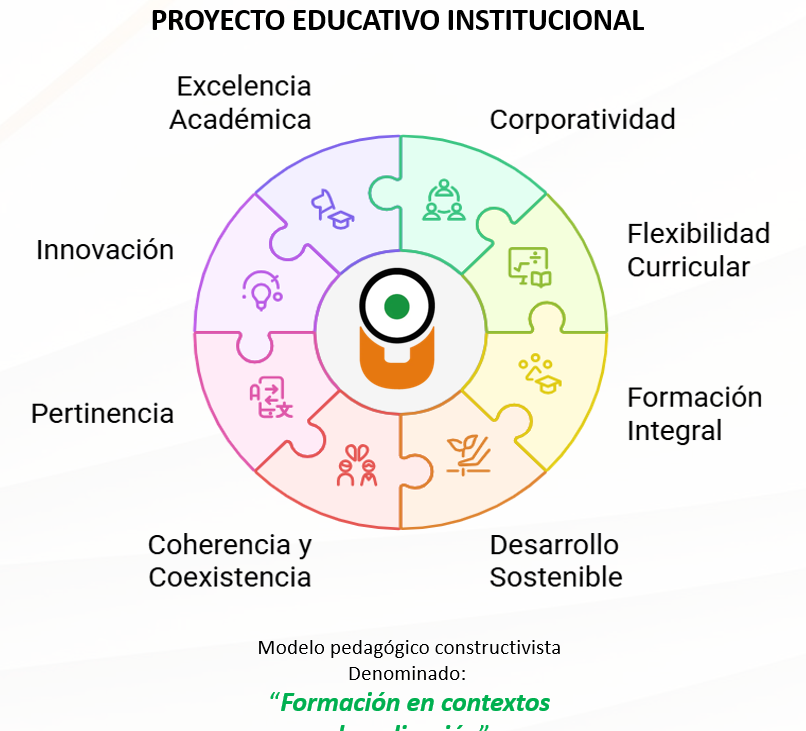
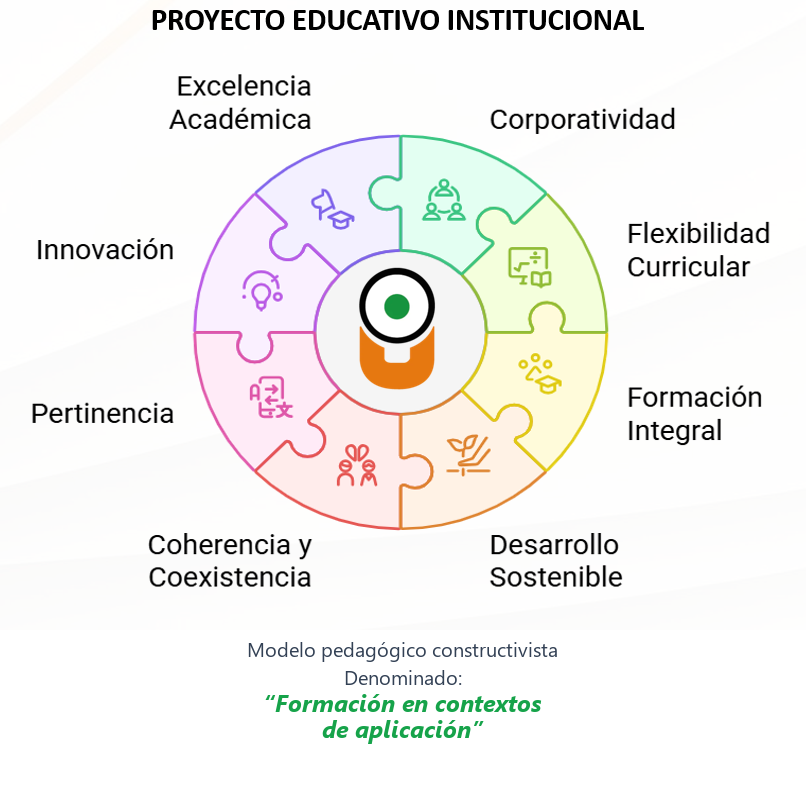
Corrige sintaxis de años en profesores y corrige recorte de texto en modelo pedagógico (PEI)

diff --git a/slides_part3.js b/slides_part3.js
@@ -2,15 +2,15 @@ const slides3=[
 // 18 COND 7 - Profesores Overview
 `${L}<p class="cond-badge">Condicion 07 - Profesores</p><h2>CUERPO <span class="accent">DOCENTE</span></h2><div class="line-accent"></div><div class="stats-row"><div class="stat-block"><div class="stat-number orange">8</div><div class="stat-desc">Docentes vinculados</div></div><div class="stat-block"><div class="stat-number">5 TC</div><div class="stat-desc">Tiempo completo</div></div><div class="stat-block"><div class="stat-number orange">3 MT</div><div class="stat-desc">Medio tiempo</div></div><div class="stat-block"><div class="stat-number">100%</div><div class="stat-desc">Con posgrado</div></div></div><div class="two-col" style="margin-top:16px"><div><h3 style="font-size:16px">CRITERIOS DE <span class="accent">SELECCION</span></h3><ul class="feat-list"><li>Requisicion por coordinadores, aprobada por Vicerrectoria Academica</li><li>Convocatoria publica con revision de candidatos</li><li>Entrevistas y pruebas de competencias</li><li>Verificacion de formacion, experiencia y produccion cientifica</li><li>Escalafon docente con criterios objetivos</li><li>Estatuto Docente regula funciones, dedicacion y contratacion (Anexo 17)</li></ul></div><div><h3 style="font-size:16px">FORMACION <span class="accent">ACADEMICA</span></h3><canvas id="formacionChart" height="200"></canvas></div></div>`,
 // 19 COND 7 - Perfiles Detallados
-`${L}<p class="cond-badge">Condicion 07 - Perfiles Docentes</p><h2>EQUIPO <span class="accent">ACADEMICO</span></h2><div class="line-accent"></div><table class="clean-table" style="margin-top:8px"><thead><tr><th>Docente</th><th>Formacion Academica</th><th>Vinc.</th><th>Exp. Prof.</th><th>Exp. Doc.</th></tr></thead><tbody><tr><td>Fredy Castellanos B.</td><td>Magister Prevencion Riesgos Laborales, Esp. Gerencia Empresas, Ing. Industrial</td><td>TC</td><td>25 anos</td><td>20 anos</td></tr><tr><td>Pedro E. Noriega G.</td><td>Cursante Doctorado Educacion, Esp. Salud Ocupacional, Ing. Industrial, Tec. Mecanico</td><td>TC</td><td>25 anos</td><td>20 anos</td></tr><tr><td>Guillermo Melendez</td><td>Cursante Doctorado Educacion, Maestria Riesgos Laborales, Abogado, Prof. Salud Ocup.</td><td>TC</td><td>18 anos</td><td>15 anos</td></tr><tr><td>Andrea K. Hernandez</td><td>Magister Administracion, Esp. Tec. Gestion BD, Ing. Industrial, Periodismo</td><td>TC</td><td>16 anos</td><td>14 anos</td></tr><tr><td>Cristian Perez Ch.</td><td>Candidato Magister Gerencia Organizaciones, Esp. Finanzas, Adm. Empresas</td><td>TC</td><td>6 anos</td><td>1 ano</td></tr><tr><td>Ivan L. Mantilla J.</td><td>Magister Innovacion Social, Maestria Adm. Gerencial, 3 Especializaciones, Ing. Industrial</td><td>MT</td><td>12 anos</td><td>7 anos</td></tr><tr><td>Leonardo F. Perez V.</td><td>Master Finanzas, Magister Direccion Empresas, Esp. Gerencia Proyectos, Ing. Industrial</td><td>MT</td><td>15 anos</td><td>5 anos</td></tr><tr><td>Alejandro Almeyda C.</td><td>Magister Gerencia Negocios, 2 Especializaciones, Ing. de Mercados</td><td>MT</td><td>25 anos</td><td>23 anos</td></tr></tbody></table><p style="font-size:12px;color:#555;margin-top:8px">Hojas de vida documentadas en Anexo 19 y Anexo 20. Experiencia promedio profesional: 17.5 anos. Experiencia promedio docente: 13 anos.</p>`,
+`${L}<p class="cond-badge">Condicion 07 - Perfiles Docentes</p><h2>EQUIPO <span class="accent">ACADEMICO</span></h2><div class="line-accent"></div><table class="clean-table" style="margin-top:8px"><thead><tr><th>Docente</th><th>Formacion Academica</th><th>Vinc.</th><th>Exp. Prof.</th><th>Exp. Doc.</th></tr></thead><tbody><tr><td>Fredy Castellanos B.</td><td>Magister Prevencion Riesgos Laborales, Esp. Gerencia Empresas, Ing. Industrial</td><td>TC</td><td>25 años</td><td>20 años</td></tr><tr><td>Pedro E. Noriega G.</td><td>Cursante Doctorado Educacion, Esp. Salud Ocupacional, Ing. Industrial, Tec. Mecanico</td><td>TC</td><td>25 años</td><td>20 años</td></tr><tr><td>Guillermo Melendez</td><td>Cursante Doctorado Educacion, Maestria Riesgos Laborales, Abogado, Prof. Salud Ocup.</td><td>TC</td><td>18 años</td><td>15 años</td></tr><tr><td>Andrea K. Hernandez</td><td>Magister Administracion, Esp. Tec. Gestion BD, Ing. Industrial, Periodismo</td><td>TC</td><td>16 años</td><td>14 años</td></tr><tr><td>Cristian Perez Ch.</td><td>Candidato Magister Gerencia Organizaciones, Esp. Finanzas, Adm. Empresas</td><td>TC</td><td>6 años</td><td>1 año</td></tr><tr><td>Ivan L. Mantilla J.</td><td>Magister Innovacion Social, Maestria Adm. Gerencial, 3 Especializaciones, Ing. Industrial</td><td>MT</td><td>12 años</td><td>7 años</td></tr><tr><td>Leonardo F. Perez V.</td><td>Master Finanzas, Magister Direccion Empresas, Esp. Gerencia Proyectos, Ing. Industrial</td><td>MT</td><td>15 años</td><td>5 años</td></tr><tr><td>Alejandro Almeyda C.</td><td>Magister Gerencia Negocios, 2 Especializaciones, Ing. de Mercados</td><td>MT</td><td>25 años</td><td>23 años</td></tr></tbody></table><p style="font-size:12px;color:#555;margin-top:8px">Hojas de vida documentadas en Anexo 19 y Anexo 20. Experiencia promedio profesional: 17.5 años. Experiencia promedio docente: 13 años.</p>`,
 // 20 COND 7 - Plan Vinculacion
 `${L}<p class="cond-badge">Condicion 07 - Plan de Vinculacion Docente</p><h2>PROYECCION <span class="accent">DOCENTE</span></h2><div class="line-accent"></div><div class="two-col" style="margin-top:12px"><div><h3 style="font-size:16px">CRECIMIENTO <span class="accent">PROGRESIVO</span></h3><p style="font-size:14px;line-height:1.6">La proyeccion de docentes por semestre se realiza segun crecimiento de cohortes, cumpliendo perfiles determinados en el escalafon docente.</p><canvas id="proyeccionChart" height="180"></canvas></div><div><h3 style="font-size:16px">LINEAMIENTOS <span class="accent">INSTITUCIONALES</span></h3><ul class="feat-list"><li>Estatuto Docente - Cap. IV: Seleccion, vinculacion, desvinculacion (Anexo 17)</li><li>Cap. V: Funciones, tipo contratacion, dedicacion, asignacion</li><li>Lineamiento Distribucion Planes de Trabajo (Anexo 18)</li><li>Plan de Vinculacion Docente con presupuesto asignado (Anexo 7)</li><li>Escalafon con criterios: formacion, experiencia, produccion cientifica</li><li>Libertad de catedra y libre investigacion garantizadas</li></ul><div class="line-accent" style="margin-top:12px"></div><div class="stat-block"><div class="stat-number orange">140</div><div class="stat-desc">Estudiantes por cohorte con escalabilidad docente garantizada</div></div></div></div>`,
 // 21 COND 8 - Medios Educativos
 `${L}<p class="cond-badge">Condicion 08 - Medios Educativos</p><h2>ECOSISTEMA <span class="accent">DIGITAL</span></h2><div class="line-accent"></div><div class="eco-grid" style="margin-top:16px"><div class="eco-card"><div class="icon">&#128218;</div><div class="name">LMS Campus Virtual</div><p style="font-size:12px;color:#555;margin-top:4px">Plataforma de gestion del aprendizaje con recursos multimedia</p></div><div class="eco-card"><div class="icon">&#128214;</div><div class="name">Biblioteca E-Libro</div><p style="font-size:12px;color:#555;margin-top:4px">Contrato vigente con miles de titulos especializados (Anexo 21)</p></div><div class="eco-card"><div class="icon">&#127909;</div><div class="name">Plataforma Sincronica</div><p style="font-size:12px;color:#555;margin-top:4px">Encuentros en tiempo real con grabacion y chat</p></div><div class="eco-card"><div class="icon">&#128274;</div><div class="name">Software Antiplagio</div><p style="font-size:12px;color:#555;margin-top:4px">Verificacion de originalidad en trabajos academicos</p></div><div class="eco-card"><div class="icon">&#128231;</div><div class="name">Correo Institucional</div><p style="font-size:12px;color:#555;margin-top:4px">Herramientas de productividad y comunicacion</p></div><div class="eco-card"><div class="icon">&#128187;</div><div class="name">Software Creacion</div><p style="font-size:12px;color:#555;margin-top:4px">Herramientas para produccion de contenidos digitales</p></div></div><p style="font-size:13px;color:#555;margin-top:12px">Instructivo de ingreso a Campus Virtual (Anexo 13) | Lineamiento Virtualizacion (Anexo 20)</p>`,
 // 22 COND 8 - Accesibilidad
-`${L}<p class="cond-badge">Condicion 08 - Disponibilidad y Acceso</p><h2>ACCESIBILIDAD Y <span class="accent">CAPACITACION</span></h2><div class="line-accent"></div><div class="two-col" style="margin-top:12px"><div><h3 style="font-size:16px">PROCESOS <span class="accent">DOCUMENTADOS</span></h3><ul class="feat-list"><li>Proceso de asignacion de medios educativos segun experiencias de aprendizaje</li><li>Capacitacion docente y estudiantil en uso de plataformas</li><li>Estrategias de accesibilidad para personas con necesidades especiales</li><li>Proceso de prestamo y asignacion de recursos</li><li>Atencion de barreras de acceso con ajustes razonables</li><li>Plan de actualizacion tecnologica a 7 anos</li></ul></div><div><h3 style="font-size:16px">GARANTIAS DE <span class="accent">CALIDAD</span></h3><div class="data-grid" style="grid-template-columns:1fr"><div class="data-cell accent-cell"><h4>Capacitacion Permanente</h4><p>Programas de formacion docente en uso de TIC y herramientas digitales</p></div><div class="data-cell"><h4>Soporte Tecnico</h4><p>Mesa de ayuda disponible para estudiantes y docentes</p></div><div class="data-cell"><h4>Actualizacion Continua</h4><p>Renovacion planificada de licencias, plataformas y contenidos</p></div></div></div></div>`,
+`${L}<p class="cond-badge">Condicion 08 - Disponibilidad y Acceso</p><h2>ACCESIBILIDAD Y <span class="accent">CAPACITACION</span></h2><div class="line-accent"></div><div class="two-col" style="margin-top:12px"><div><h3 style="font-size:16px">PROCESOS <span class="accent">DOCUMENTADOS</span></h3><ul class="feat-list"><li>Proceso de asignacion de medios educativos segun experiencias de aprendizaje</li><li>Capacitacion docente y estudiantil en uso de plataformas</li><li>Estrategias de accesibilidad para personas con necesidades especiales</li><li>Proceso de prestamo y asignacion de recursos</li><li>Atencion de barreras de acceso con ajustes razonables</li><li>Plan de actualizacion tecnologica a 7 años</li></ul></div><div><h3 style="font-size:16px">GARANTIAS DE <span class="accent">CALIDAD</span></h3><div class="data-grid" style="grid-template-columns:1fr"><div class="data-cell accent-cell"><h4>Capacitacion Permanente</h4><p>Programas de formacion docente en uso de TIC y herramientas digitales</p></div><div class="data-cell"><h4>Soporte Tecnico</h4><p>Mesa de ayuda disponible para estudiantes y docentes</p></div><div class="data-cell"><h4>Actualizacion Continua</h4><p>Renovacion planificada de licencias, plataformas y contenidos</p></div></div></div></div>`,
 // 23 COND 9 - Infraestructura Fisica
-`${L}<p class="cond-badge">Condicion 09 - Infraestructura</p><h2>INFRAESTRUCTURA <span class="accent">FISICA</span></h2><div class="line-accent"></div><div class="data-grid" style="margin-top:16px"><div class="data-cell accent-cell"><h4>Sede A</h4><p>Oficinas administrativas, aulas y espacios academicos. Contrato vigente (Anexo 22). Uso de suelo y Licencia de Construccion aprobados (Anexo 23).</p></div><div class="data-cell"><h4>Sede B</h4><p>Convenio institucional (Anexo 25) para espacios complementarios, bienestar universitario y actividades de extension.</p></div><div class="data-cell"><h4>Sede C</h4><p>Laboratorios especializados, salas de computo y espacios de practica. Contrato vigente (Anexo 24).</p></div></div><div class="two-col" style="margin-top:16px"><div><h3 style="font-size:16px">DOCUMENTOS <span class="accent">LEGALES</span></h3><ul class="feat-list"><li>Contrato Sede A (Anexo 22)</li><li>Uso de Suelo y Licencia de Construccion (Anexo 23)</li><li>Contrato Sede C (Anexo 24)</li><li>Convenio Sede B (Anexo 25)</li></ul></div><div><h3 style="font-size:16px">PLAN DE <span class="accent">MANTENIMIENTO</span></h3><p style="font-size:14px;line-height:1.6">Plan de renovacion y mantenimiento, actualizacion y reposicion de la infraestructura fisica y tecnologica proyectado para los proximos 7 anos.</p></div></div>`,
+`${L}<p class="cond-badge">Condicion 09 - Infraestructura</p><h2>INFRAESTRUCTURA <span class="accent">FISICA</span></h2><div class="line-accent"></div><div class="data-grid" style="margin-top:16px"><div class="data-cell accent-cell"><h4>Sede A</h4><p>Oficinas administrativas, aulas y espacios academicos. Contrato vigente (Anexo 22). Uso de suelo y Licencia de Construccion aprobados (Anexo 23).</p></div><div class="data-cell"><h4>Sede B</h4><p>Convenio institucional (Anexo 25) para espacios complementarios, bienestar universitario y actividades de extension.</p></div><div class="data-cell"><h4>Sede C</h4><p>Laboratorios especializados, salas de computo y espacios de practica. Contrato vigente (Anexo 24).</p></div></div><div class="two-col" style="margin-top:16px"><div><h3 style="font-size:16px">DOCUMENTOS <span class="accent">LEGALES</span></h3><ul class="feat-list"><li>Contrato Sede A (Anexo 22)</li><li>Uso de Suelo y Licencia de Construccion (Anexo 23)</li><li>Contrato Sede C (Anexo 24)</li><li>Convenio Sede B (Anexo 25)</li></ul></div><div><h3 style="font-size:16px">PLAN DE <span class="accent">MANTENIMIENTO</span></h3><p style="font-size:14px;line-height:1.6">Plan de renovacion y mantenimiento, actualizacion y reposicion de la infraestructura fisica y tecnologica proyectado para los proximos 7 años.</p></div></div>`,
 // 24 COND 9 - Infraestructura Tecnologica
 `${L}<p class="cond-badge">Condicion 09 - Infraestructura Tecnologica</p><h2>PLATAFORMA <span class="accent">TECNOLOGICA</span></h2><div class="line-accent"></div><div class="two-col" style="margin-top:12px"><div><table class="clean-table"><thead><tr><th>Componente</th><th>Descripcion</th></tr></thead><tbody><tr><td class="lb">LMS</td><td>Plataforma de gestion del aprendizaje institucional</td></tr><tr><td class="lb">Encuentros sincronicos</td><td>Plataforma para videoconferencias y clases en vivo</td></tr><tr><td class="lb">Correo institucional</td><td>Suite de herramientas de productividad</td></tr><tr><td class="lb">Software antiplagio</td><td>Verificacion de originalidad academica</td></tr><tr><td class="lb">Biblioteca digital</td><td>E-Libro con acceso a miles de titulos</td></tr><tr><td class="lb">Creacion contenidos</td><td>Software para produccion de material educativo</td></tr><tr><td class="lb">Servidores</td><td>Infraestructura para soportar 140+ estudiantes por cohorte</td></tr></tbody></table></div><div><h3 style="font-size:16px">DIMENSIONAMIENTO <span class="accent">TECNOLOGICO</span></h3><canvas id="techChart" height="180"></canvas><p style="font-size:13px;color:#555;margin-top:8px">Escalabilidad garantizada para crecimiento progresivo de cohortes</p></div></div>`,
 // 25 Marco Normativo

diff --git a/sections2.js b/sections2.js
@@ -58,23 +58,23 @@ c5:`<div class="slide-header"><div class="slide-title"><div class="slide-subtitl
         <button class="nav-btn" style="background:#111827; color:#fff; border:1px solid #FF6600; padding:10px; border-radius:5px; cursor:pointer;" onclick="openModal('assets/slide_18_shape.png', 'Aportes al Sector Productivo')"><i class="fas fa-industry" style="color:#FF6600;"></i> Aportes al Sector</button>
     </div>
     <div class="card" style="margin-bottom:15px; text-align:center;">
-        <button class="nav-btn" style="background:#10B981; color:#fff; border:none; padding:12px 20px; font-weight:bold; border-radius:5px; cursor:pointer; width:100%; font-size:1.1em;" onclick="openModal('assets/slide_19_shape.png', 'Proyeccion de Investigacion a 7 Anos')"><i class="fas fa-calendar-alt"></i> Ver Plan de Desarrollo de Investigacion a 7 Anos</button>
+        <button class="nav-btn" style="background:#10B981; color:#fff; border:none; padding:12px 20px; font-weight:bold; border-radius:5px; cursor:pointer; width:100%; font-size:1.1em;" onclick="openModal('assets/slide_19_shape.png', 'Proyeccion de Investigacion a 7 Años')"><i class="fas fa-calendar-alt"></i> Ver Plan de Desarrollo de Investigacion a 7 Años</button>
     </div>
 </div>
 </div>`,
 
 c6:`<div class="slide-header"><div class="slide-title"><div class="slide-subtitle">Condicion 06</div><h1>Relacion con el Sector Externo</h1></div><div class="date-badge">Art. 2.5.3.2.3.2.7</div></div>
 <div class="timeline"><div class="event-card type-induction"><span class="event-time">ESTRATEGIAS DE VINCULACION</span><div class="event-title">Mecanismos de Articulacion</div><div class="grid-3" style="margin-top:8px"><div class="card"><h4><i class="fas fa-building"></i> Convenios</h4><p>Visitas empresariales virtuales, pasantias y proyectos con sector productivo regional</p></div><div class="card-accent"><h4><i class="fas fa-globe"></i> Internacional</h4><p>Simposios virtuales con universidades aliadas y eventos academicos internacionales</p></div><div class="card"><h4><i class="fas fa-bullhorn"></i> Extension</h4><p>Congreso virtual interdisciplinar y foro anual de innovacion industrial</p></div></div></div>
-<div class="event-card type-academic"><span class="event-time">PLAN OPERATIVO A 7 ANOS</span><div class="event-title">Hoja de Ruta de Relacionamiento</div><table class="tbl"><thead><tr><th>Ano</th><th>Accion Estrategica</th><th>Resultado Esperado</th></tr></thead><tbody><tr><td class="lb">1</td><td>Convenios marco con empresas regionales</td><td>5 convenios firmados</td></tr><tr><td class="lb">2</td><td>Visitas empresariales virtuales, semilleros con sector</td><td>10 visitas, 2 proyectos</td></tr><tr><td class="lb">3</td><td>Congreso virtual interdisciplinar nacional</td><td>100+ participantes</td></tr><tr><td class="lb">4</td><td>Simposio internacional con universidades aliadas</td><td>3 IES internacionales</td></tr><tr><td class="lb">5</td><td>Red de egresados, foro anual de innovacion</td><td>Red activa, 50+ egresados</td></tr><tr><td class="lb">6</td><td>Publicaciones conjuntas con sector productivo</td><td>3 publicaciones</td></tr><tr><td class="lb">7</td><td>Consolidacion de alianzas internacionales</td><td>5 alianzas permanentes</td></tr></tbody></table><div class="evidence-box"><i class="fas fa-handshake"></i>Lineamiento de Relacionamiento Externo (Anexo 16)</div></div></div>`,
+<div class="event-card type-academic"><span class="event-time">PLAN OPERATIVO A 7 AÑOS</span><div class="event-title">Hoja de Ruta de Relacionamiento</div><table class="tbl"><thead><tr><th>Año</th><th>Accion Estrategica</th><th>Resultado Esperado</th></tr></thead><tbody><tr><td class="lb">1</td><td>Convenios marco con empresas regionales</td><td>5 convenios firmados</td></tr><tr><td class="lb">2</td><td>Visitas empresariales virtuales, semilleros con sector</td><td>10 visitas, 2 proyectos</td></tr><tr><td class="lb">3</td><td>Congreso virtual interdisciplinar nacional</td><td>100+ participantes</td></tr><tr><td class="lb">4</td><td>Simposio internacional con universidades aliadas</td><td>3 IES internacionales</td></tr><tr><td class="lb">5</td><td>Red de egresados, foro anual de innovacion</td><td>Red activa, 50+ egresados</td></tr><tr><td class="lb">6</td><td>Publicaciones conjuntas con sector productivo</td><td>3 publicaciones</td></tr><tr><td class="lb">7</td><td>Consolidacion de alianzas internacionales</td><td>5 alianzas permanentes</td></tr></tbody></table><div class="evidence-box"><i class="fas fa-handshake"></i>Lineamiento de Relacionamiento Externo (Anexo 16)</div></div></div>`,
 
 c7:`<div class="slide-header"><div class="slide-title"><div class="slide-subtitle">Condicion 07</div><h1>Profesores</h1></div><div class="date-badge">Art. 2.5.3.2.3.2.8</div></div>
-<div class="grid-4"><div class="card" style="text-align:center"><div class="stat-num orange">8</div><div class="stat-label">Docentes</div></div><div class="card" style="text-align:center"><div class="stat-num">5 TC</div><div class="stat-label">Tiempo Completo</div></div><div class="card" style="text-align:center"><div class="stat-num orange">100%</div><div class="stat-label">Con Posgrado</div></div><div class="card" style="text-align:center"><div class="stat-num">17.5</div><div class="stat-label">Anos Exp. Promedio</div></div></div>
-<div class="card" style="margin-top:16px"><h4><i class="fas fa-users"></i> Perfiles Docentes Completos</h4><table class="tbl"><thead><tr><th>Docente</th><th>Formacion Academica</th><th>Vinc.</th><th>Exp. Prof.</th><th>Exp. Doc.</th></tr></thead><tbody><tr><td>Fredy Castellanos B.</td><td>Mag. Prev. Riesgos Lab., Esp. Gerencia, Ing. Industrial</td><td>TC</td><td>25 anos</td><td>20 anos</td></tr><tr><td>Pedro E. Noriega G.</td><td>Curs. Doctorado, Esp. Salud Ocup., Ing. Industrial</td><td>TC</td><td>25 anos</td><td>20 anos</td></tr><tr><td>Guillermo Melendez</td><td>Curs. Doctorado, Maestria Riesgos, Abogado</td><td>TC</td><td>18 anos</td><td>15 anos</td></tr><tr><td>Andrea K. Hernandez</td><td>Mag. Administracion, Esp. BD, Ing. Industrial</td><td>TC</td><td>16 anos</td><td>14 anos</td></tr><tr><td>Cristian Perez Ch.</td><td>Cand. Mag. Gerencia, Esp. Finanzas, Adm. Empresas</td><td>TC</td><td>6 anos</td><td>1 ano</td></tr><tr><td>Ivan L. Mantilla J.</td><td>Mag. Innovacion Social, 3 Esp., Ing. Industrial</td><td>MT</td><td>12 anos</td><td>7 anos</td></tr><tr><td>Leonardo F. Perez V.</td><td>Master Finanzas, Mag. Direccion, Ing. Industrial</td><td>MT</td><td>15 anos</td><td>5 anos</td></tr><tr><td>Alejandro Almeyda C.</td><td>Mag. Gerencia, 2 Esp., Ing. de Mercados</td><td>MT</td><td>25 anos</td><td>23 anos</td></tr></tbody></table><div class="evidence-box"><i class="fas fa-id-badge"></i>Hojas de Vida (Anexo 19 y 20) | Estatuto Docente (Anexo 17)</div></div>
-<div class="grid-2" style="margin-top:16px"><div class="chart-box"><h4><i class="fas fa-chart-bar"></i> Formacion Academica</h4><canvas id="formacionChart" height="160"></canvas></div><div class="chart-box"><h4><i class="fas fa-chart-line"></i> Proyeccion Docente a 7 Anos</h4><canvas id="proyeccionChart" height="160"></canvas></div></div>`,
+<div class="grid-4"><div class="card" style="text-align:center"><div class="stat-num orange">8</div><div class="stat-label">Docentes</div></div><div class="card" style="text-align:center"><div class="stat-num">5 TC</div><div class="stat-label">Tiempo Completo</div></div><div class="card" style="text-align:center"><div class="stat-num orange">100%</div><div class="stat-label">Con Posgrado</div></div><div class="card" style="text-align:center"><div class="stat-num">17.5</div><div class="stat-label">Años Exp. Promedio</div></div></div>
+<div class="card" style="margin-top:16px"><h4><i class="fas fa-users"></i> Perfiles Docentes Completos</h4><table class="tbl"><thead><tr><th>Docente</th><th>Formacion Academica</th><th>Vinc.</th><th>Exp. Prof.</th><th>Exp. Doc.</th></tr></thead><tbody><tr><td>Fredy Castellanos B.</td><td>Mag. Prev. Riesgos Lab., Esp. Gerencia, Ing. Industrial</td><td>TC</td><td>25 años</td><td>20 años</td></tr><tr><td>Pedro E. Noriega G.</td><td>Curs. Doctorado, Esp. Salud Ocup., Ing. Industrial</td><td>TC</td><td>25 años</td><td>20 años</td></tr><tr><td>Guillermo Melendez</td><td>Curs. Doctorado, Maestria Riesgos, Abogado</td><td>TC</td><td>18 años</td><td>15 años</td></tr><tr><td>Andrea K. Hernandez</td><td>Mag. Administracion, Esp. BD, Ing. Industrial</td><td>TC</td><td>16 años</td><td>14 años</td></tr><tr><td>Cristian Perez Ch.</td><td>Cand. Mag. Gerencia, Esp. Finanzas, Adm. Empresas</td><td>TC</td><td>6 años</td><td>1 año</td></tr><tr><td>Ivan L. Mantilla J.</td><td>Mag. Innovacion Social, 3 Esp., Ing. Industrial</td><td>MT</td><td>12 años</td><td>7 años</td></tr><tr><td>Leonardo F. Perez V.</td><td>Master Finanzas, Mag. Direccion, Ing. Industrial</td><td>MT</td><td>15 años</td><td>5 años</td></tr><tr><td>Alejandro Almeyda C.</td><td>Mag. Gerencia, 2 Esp., Ing. de Mercados</td><td>MT</td><td>25 años</td><td>23 años</td></tr></tbody></table><div class="evidence-box"><i class="fas fa-id-badge"></i>Hojas de Vida (Anexo 19 y 20) | Estatuto Docente (Anexo 17)</div></div>
+<div class="grid-2" style="margin-top:16px"><div class="chart-box"><h4><i class="fas fa-chart-bar"></i> Formacion Academica</h4><canvas id="formacionChart" height="160"></canvas></div><div class="chart-box"><h4><i class="fas fa-chart-line"></i> Proyeccion Docente a 7 Años</h4><canvas id="proyeccionChart" height="160"></canvas></div></div>`,
 
 c8:`<div class="slide-header"><div class="slide-title"><div class="slide-subtitle">Condicion 08</div><h1>Medios Educativos</h1></div><div class="date-badge">Art. 2.5.3.2.3.2.9</div></div>
 <div class="grid-3"><div class="card"><h4><i class="fas fa-desktop"></i> LMS Campus Virtual</h4><p>Plataforma de gestion del aprendizaje con recursos multimedia, foros, evaluaciones y seguimiento</p></div><div class="card-accent"><h4><i class="fas fa-book-reader"></i> Biblioteca E-Libro</h4><p>Contrato vigente con miles de titulos especializados en ingenieria y ciencias aplicadas</p></div><div class="card"><h4><i class="fas fa-video"></i> Plataforma Sincronica</h4><p>Encuentros en tiempo real con grabacion, chat y pizarra virtual</p></div><div class="card"><h4><i class="fas fa-shield-alt"></i> Software Antiplagio</h4><p>Verificacion de originalidad en trabajos academicos y tesis</p></div><div class="card"><h4><i class="fas fa-envelope"></i> Correo Institucional</h4><p>Suite de herramientas de productividad y comunicacion academica</p></div><div class="card"><h4><i class="fas fa-paint-brush"></i> Software Creacion</h4><p>Herramientas para produccion de contenidos digitales educativos</p></div></div>
-<div class="timeline" style="margin-top:16px"><div class="event-card type-tech"><span class="event-time">ACCESIBILIDAD Y CAPACITACION</span><div class="event-title">Garantias de Calidad Digital</div><div class="grid-2" style="margin-top:8px"><div class="card"><h4>Capacitacion</h4><p>Formacion docente y estudiantil en uso de plataformas y herramientas TIC</p></div><div class="card"><h4>Soporte</h4><p>Mesa de ayuda disponible para estudiantes y docentes</p></div><div class="card"><h4>Accesibilidad</h4><p>Ajustes razonables para personas con necesidades especiales</p></div><div class="card"><h4>Actualizacion</h4><p>Plan de renovacion de licencias y plataformas a 7 anos</p></div></div><div style="margin-top:8px"><span class="tag-legal">Anexo 13 - Instructivo Campus</span><span class="tag-legal">Anexo 20 - Virtualizacion</span><span class="tag-legal">Anexo 21 - Contrato E-Libro</span></div></div></div>`,
+<div class="timeline" style="margin-top:16px"><div class="event-card type-tech"><span class="event-time">ACCESIBILIDAD Y CAPACITACION</span><div class="event-title">Garantias de Calidad Digital</div><div class="grid-2" style="margin-top:8px"><div class="card"><h4>Capacitacion</h4><p>Formacion docente y estudiantil en uso de plataformas y herramientas TIC</p></div><div class="card"><h4>Soporte</h4><p>Mesa de ayuda disponible para estudiantes y docentes</p></div><div class="card"><h4>Accesibilidad</h4><p>Ajustes razonables para personas con necesidades especiales</p></div><div class="card"><h4>Actualizacion</h4><p>Plan de renovacion de licencias y plataformas a 7 años</p></div></div><div style="margin-top:8px"><span class="tag-legal">Anexo 13 - Instructivo Campus</span><span class="tag-legal">Anexo 20 - Virtualizacion</span><span class="tag-legal">Anexo 21 - Contrato E-Libro</span></div></div></div>`,
 
 c9:`<div class="slide-header"><div class="slide-title"><div class="slide-subtitle">Condicion 09</div><h1>Infraestructura Fisica y Tecnologica</h1></div><div class="date-badge">Art. 2.5.3.2.3.2.10</div></div>
 <div class="grid-3"><div class="card-accent"><h4><i class="fas fa-building"></i> Sede A</h4><p>Oficinas administrativas y aulas. Contrato vigente. Uso de suelo y Licencia de Construccion aprobados.</p><div style="margin-top:6px"><span class="tag-legal" style="background:rgba(255,255,255,.2);color:#fff">Anexo 22</span><span class="tag-legal" style="background:rgba(255,255,255,.2);color:#fff">Anexo 23</span></div></div><div class="card"><h4><i class="fas fa-university"></i> Sede B</h4><p>Convenio institucional para espacios complementarios, bienestar universitario y extension.</p><div style="margin-top:6px"><span class="tag-legal">Anexo 25</span></div></div><div class="card"><h4><i class="fas fa-microscope"></i> Sede C</h4><p>Laboratorios especializados, salas de computo y espacios de practica. Contrato vigente.</p><div style="margin-top:6px"><span class="tag-legal">Anexo 24</span></div></div></div>
